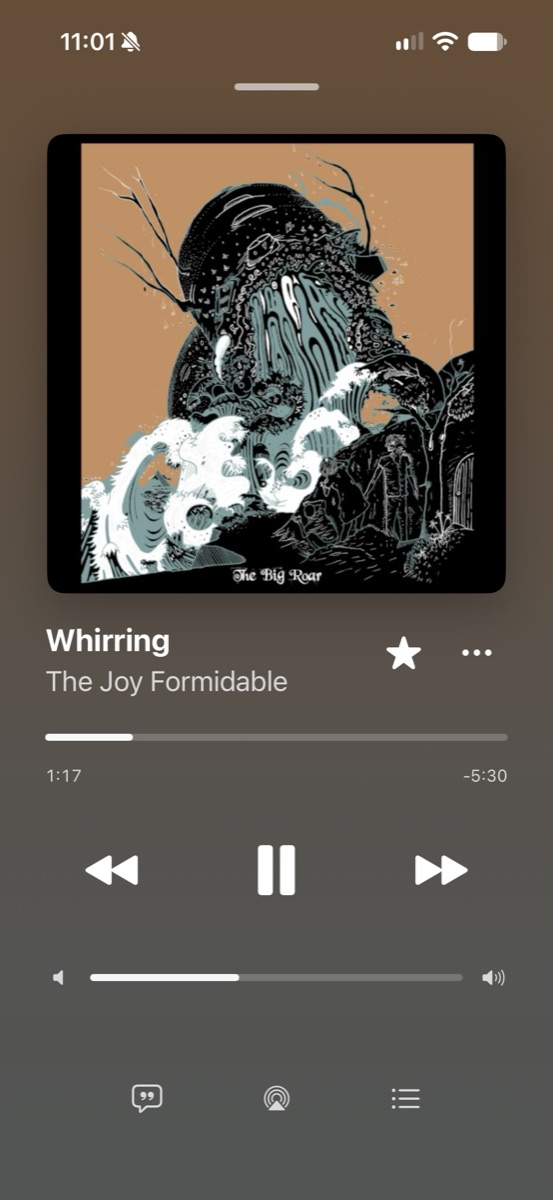
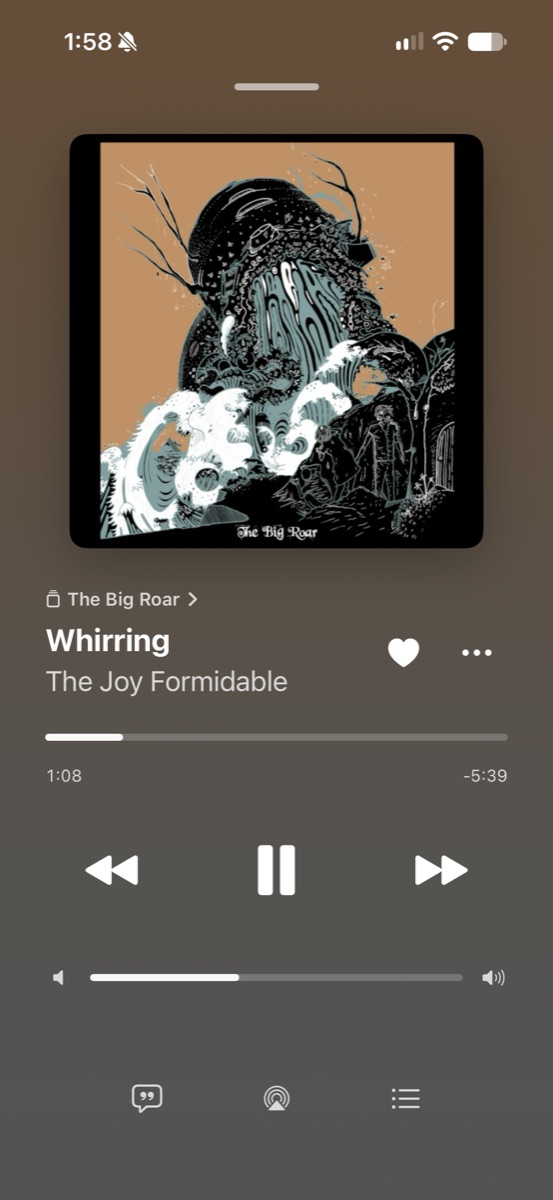
docs: README screenshots with hearts and the Playing from line

diff --git a/README.md b/README.md
@@ -16,9 +16,9 @@
 
 <p align="center">
   <img src="docs/screenshots/ios/01-home.jpg" alt="Home: playlists and favourite songs" width="200">
-  <img src="docs/screenshots/ios/02-now-playing.jpg" alt="Now Playing with the cover's colours" width="200">
+  <img src="docs/screenshots/ios/02-now-playing.jpg" alt="Now Playing, showing where the music is playing from" width="200">
   <img src="docs/screenshots/ios/03-lyrics.jpg" alt="Synced lyrics in the player" width="200">
-  <img src="docs/screenshots/ios/05-discover.jpg" alt="Discover: stations and Smart Shuffle" width="200">
+  <img src="docs/screenshots/ios/04-discover.jpg" alt="Discover: stations and Smart Shuffle" width="200">
 </p>
 
 ## About this fork
@@ -78,10 +78,12 @@ The fork follows its own direction and doesn't send changes upstream, but it mer
 
 | | | |
 |:-:|:-:|:-:|
-| <img src="docs/screenshots/ios/06-artist.jpg" alt="Artist page" width="240"> | <img src="docs/screenshots/ios/07-library.jpg" alt="Library" width="240"> | <img src="docs/screenshots/ios/08-playlists.jpg" alt="Playlists" width="240"> |
-| Artist pages with a favourite button | Library | Playlists, with search |
-| <img src="docs/screenshots/ios/09-recommended.jpg" alt="Recommended for You" width="240"> | <img src="docs/screenshots/ios/10-playback-settings.jpg" alt="Playback settings" width="240"> | <img src="docs/screenshots/ios/04-minidisc-cover.jpg" alt="The MiniDisc cover easter egg" width="240"> |
-| Recommendations from Apple Intelligence | Playback settings, in Plexamp's order | Tap the cover for a MiniDisc |
+| <img src="docs/screenshots/ios/05-album.jpg" alt="Album page" width="240"> | <img src="docs/screenshots/ios/11-now-playing-colours.jpg" alt="Now Playing coloured by the cover" width="240"> | <img src="docs/screenshots/ios/06-library.jpg" alt="Library" width="240"> |
+| Albums, with a favourite button | The player takes its colours from the cover | Library |
+| <img src="docs/screenshots/ios/07-albums.jpg" alt="Albums list" width="240"> | <img src="docs/screenshots/ios/08-playlists.jpg" alt="Playlists" width="240"> | <img src="docs/screenshots/ios/09-recommended.jpg" alt="Recommended for You" width="240"> |
+| Albums, with an index | Playlists, with search | Recommendations from Apple Intelligence |
+| <img src="docs/screenshots/ios/10-playback-settings.jpg" alt="Playback settings" width="240"> | | |
+| Playback settings, in Plexamp's order | | |
 
 ## Features from upstream
 
